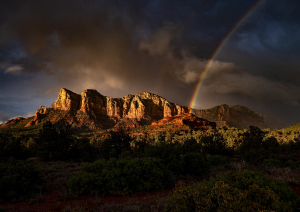
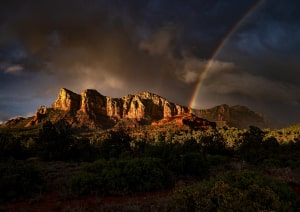
placed images in the markup

diff --git a/hotels.html b/hotels.html
@@ -121,7 +121,12 @@
                     <li class="item hotels__item">
                         <a href="#">
                             <figure class="hotel catalog__hotel">
-                                <img src="images/hotel-1.jpg" alt="">
+                                <a href="#" class="link hotel__link">
+                                    <picture class="image hotel__image">
+                                        <source type="image/webp" srcset="images/hotel-1.webp 1x, images/hotel-1@2.webp 2x, images/hotel-1@3.webp 3x">
+                                        <img width="300" height="212" src="images/hotel-1.jpg" srcset="images/hotel-1@2.jpg 2x, images/hotel-1@3.jpg 3x" alt="">
+                                    </picture>
+                                </a>
                                 <figcaption>
                                     <h3>Amara Resort & Spa</h3>
                                     <div class="properties hotel__properties">
@@ -148,8 +153,13 @@
                     <li class="item hotels__item">
                         <a href="#">
                             <figure class="hotel catalog__hotel">
-                                <img src="images/hotel-2.jpg" alt="">
-                                <figcaption>
+                                <a href="#" class="link hotel__link">
+                                    <picture class="image hotel__image">
+                                        <source type="image/webp" srcset="images/hotel-2.webp 1x, images/hotel-2@2.webp 2x, images/hotel-2@3.webp 3x">
+                                         <img width="300" height="212" src="images/hotel-2.jpg" srcset="images/hotel-2@2.jpg 2x, images/hotel-2@3.jpg 3x" alt="">
+                                    </picture>
+                                </a>
+                               <figcaption>
                                     <h3>Villas at Poco Diablo</h3>
                                     <div class="properties hotel__properties">
                                         <p class="type hotel__type">Гостиница</p>
@@ -173,18 +183,21 @@
                         </div>
                     </li>
                     <li class="item hotels__item">
-                        <a href="#">
-                            <figure class="hotel catalog__hotel">
-                                <img src="images/hotel-3.jpg" alt="">
-                                <figcaption>
-                                    <h3>Desert Quail Inn</h3>
-                                    <div class="properties hotel__properties">
-                                        <p class="type hotel__type">Гостиница</p>
-                                        <p class="price hotel__price">От <span>2500</span> ₽</p>
-                                    </div>
-                                </figcaption>
-                            </figure>
-                        </a>
+                        <figure class="hotel catalog__hotel">
+                            <a href="#" class="link hotel__link">
+                                <picture class="image hotel__image">
+                                    <source type="image/webp" srcset="images/hotel-3.webp 1x, images/hotel-3@2.webp 2x, images/hotel-3@3.webp 3x">
+                                    <img width="300" height="212" src="images/hotel-3.jpg" srcset="images/hotel-3@2.jpg 2x, images/hotel-3@3.jpg 3x" alt="">
+                                </picture>
+                            </a>
+                            <figcaption>
+                                <h3>Desert Quail Inn</h3>
+                                <div class="properties hotel__properties">
+                                    <p class="type hotel__type">Гостиница</p>
+                                    <p class="price hotel__price">От <span>2500</span> ₽</p>
+                                </div>
+                            </figcaption>
+                        </figure>
                         <div class="buttons hotels__buttons">
                             <a href="#" class="more-details hotels__more-details">Подробнее</a>
                             <button class="favorites hotels__favorites" onclick="addToFavorites()">В избранное</button>
@@ -199,18 +212,21 @@
                         </div>
                     </li>
                     <li class="item hotels__item">
-                        <a href="#">
-                            <figure class="hotel catalog__hotel">
-                                <img src="images/hotel-4.jpg" alt="">
-                                <figcaption>
-                                    <h3>GreenTree Inn</h3>
-                                    <div class="properties hotel__properties">
-                                        <p class="type hotel__type">Гостиница</p>
-                                        <p class="price hotel__price">От <span>1500 ₽</span> ₽</p>
-                                    </div>
-                                </figcaption>
-                            </figure>
-                        </a>
+                        <figure class="hotel catalog__hotel">
+                            <a href="" class="link hotel__link">
+                                <picture class="image hotel__image">
+                                    <source type="image/webp" srcset="images/hotel-4.webp 1x, images/hotel-4@2.webp 2x, images/hotel-4@3.webp 3x">
+                                    <img width="300" height="212" src="images/hotel-4.jpg" srcset="images/hotel-4@2.jpg 2x, images/hotel-4@3.jpg 3x" alt="">
+                                </picture>
+                            </a>
+                            <figcaption>
+                                <h3>GreenTree Inn</h3>
+                                <div class="properties hotel__properties">
+                                    <p class="type hotel__type">Гостиница</p>
+                                    <p class="price hotel__price">От <span>1500 ₽</span> ₽</p>
+                                </div>
+                            </figcaption>
+                        </figure>
                         <div class="buttons hotels__buttons">
                             <a href="#" class="more-details hotels__more-details">Подробнее</a>
                             <button class="favorites hotels__favorites" onclick="addToFavorites()">В избранное</button>

diff --git a/index.html b/index.html
@@ -8,7 +8,12 @@
     <div class="container page__container">
       <header class="header page__header">
         <nav class="navigation header__navigation">
-          <a href="#" class="logo header__logo"><img width="140" height="70" src="images/logo.svg" alt="Логотип Седоны"></a>
+          <a href="#" class="logo header__logo">
+<!--            <img width="140" height="70" src="images/logo.svg" alt="Логотип Седоны">  -->
+            <svg width="140" height="70" class="image logo__image">
+              <use href="images/sprire.svg#logo"></use>
+            </svg>
+          </a>
           <ul class="list menu navigation__menu">
             <li class="item menu__item"><a href="">Главная</a></li>
             <li class="item menu__item"><a href="">О седоне</a></li>
@@ -25,7 +30,10 @@
         <section class="hero">
           <h1 class="visually-hidden">Приглашаем в Седону</h1>
           <div class="hero__greetings">
-            <img class="hero__welcom" width="458" height="352" src="images/welcome.svg" alt="Добро пожаловать в Седону!">
+<!--            <img class="hero__welcom" width="458" height="352" src="images/welcome.svg" alt="Добро пожаловать в Седону!">  -->
+            <svg width="458" height="352" class="welcome hero__welcome">
+              <use href="images/sprite.svg#welcome"></use>
+            </svg>
           </div>
           <div class="description hero__description">
             <p class="description-basic hero__description-basic">Седона — небольшой городок в Аризоне, заслуживающий большего!</p>
@@ -40,9 +48,10 @@
                 <h3 class="heading advantage__heading">Настоящий городок</h3>
                 <p class="subtitle advantage__subtitle">Седона — не аттракцион для туристов, там течёт своя жизнь</p>
               </div>
-              <div class="image advantages__image">
-                <img width="800" height="385" src="images/town.jpg" alt="Фотография фрагмента городка Седона">
-              </div>
+              <picture class="image advantages__image">
+                <source type="image/webp" srcset="images/town.webp 1x, images/town@2.webp 2x, images/town@3.webp 3x">
+                <img width="800" height="385" src="images/town.jpg" srcset="images/town@2.jpg 2x, images/town@3.jpg 3x" alt="Фотография фрагмента городка Седона">
+              </picture>
             </li>
             <li class="item advantages__item">
               <div class="advantage advantages__advantage">
@@ -63,9 +72,10 @@
               </div>
             </li>
             <li class="item advantages__item">
-              <div class="image advantages__image">
-                <img width="800" height="385" src="images/bridge.jpg" alt="Фотография Моста дьявола">
-              </div>
+              <picture class="image advantages__image">
+                <source type="image/webp" srcset="images/bridge.webp 1x, images/bridge@2.webp 2x, images/bridge@3.webp 3x">
+                <img width="800" height="385" src="images/bridge.jpg" srcset="images/bridge@2.jpg 2x, images/bridge@3.jpg 3x" alt="Фотография Моста дьявола">
+              </picture>
               <div class="advantage advantages__advantage">
                 <h3 class="heading advantage__heading">Там есть мост дьявола</h3>
                 <p class="subtitle advantage__subtitle">Да, по нему можно пройти! Если вы осмелитесь, разумеется</p>
@@ -127,7 +137,12 @@
           <li class="sosial footer__sosial"><a href=" https://www.youtube.com/user/htmlacademyru"><span class="visually-hidden">Ютуб</span></a></li>
         </ul>
         <a href="tel:+78128121212" class="phone-number footer__phone-number">+7 (812) 812-12-12</a>
-        <a href=" https://htmlacademy.ru/" class="logo footer__logo"><img width="115" height="33" src="images/logo-htmlacademy.svg" alt="Логотип HTMLAcademy"></a>
+        <a href=" https://htmlacademy.ru/" class="logo-academy footer__logo-academy">
+<!--          <img width="115" height="33" src="images/logo-htmlacademy.svg" alt="Логотип HTMLAcademy">  -->
+          <svg width="115" height="33" class="image logo-academy">
+            <use href="images/sprite.svg#logo-academy"></use>
+          </svg>
+        </a>
       </footer>
       <dialog id="hotelSearch" class="popup page__popup">
           <h3>Поиск гостиницы в Седоне</h3>
